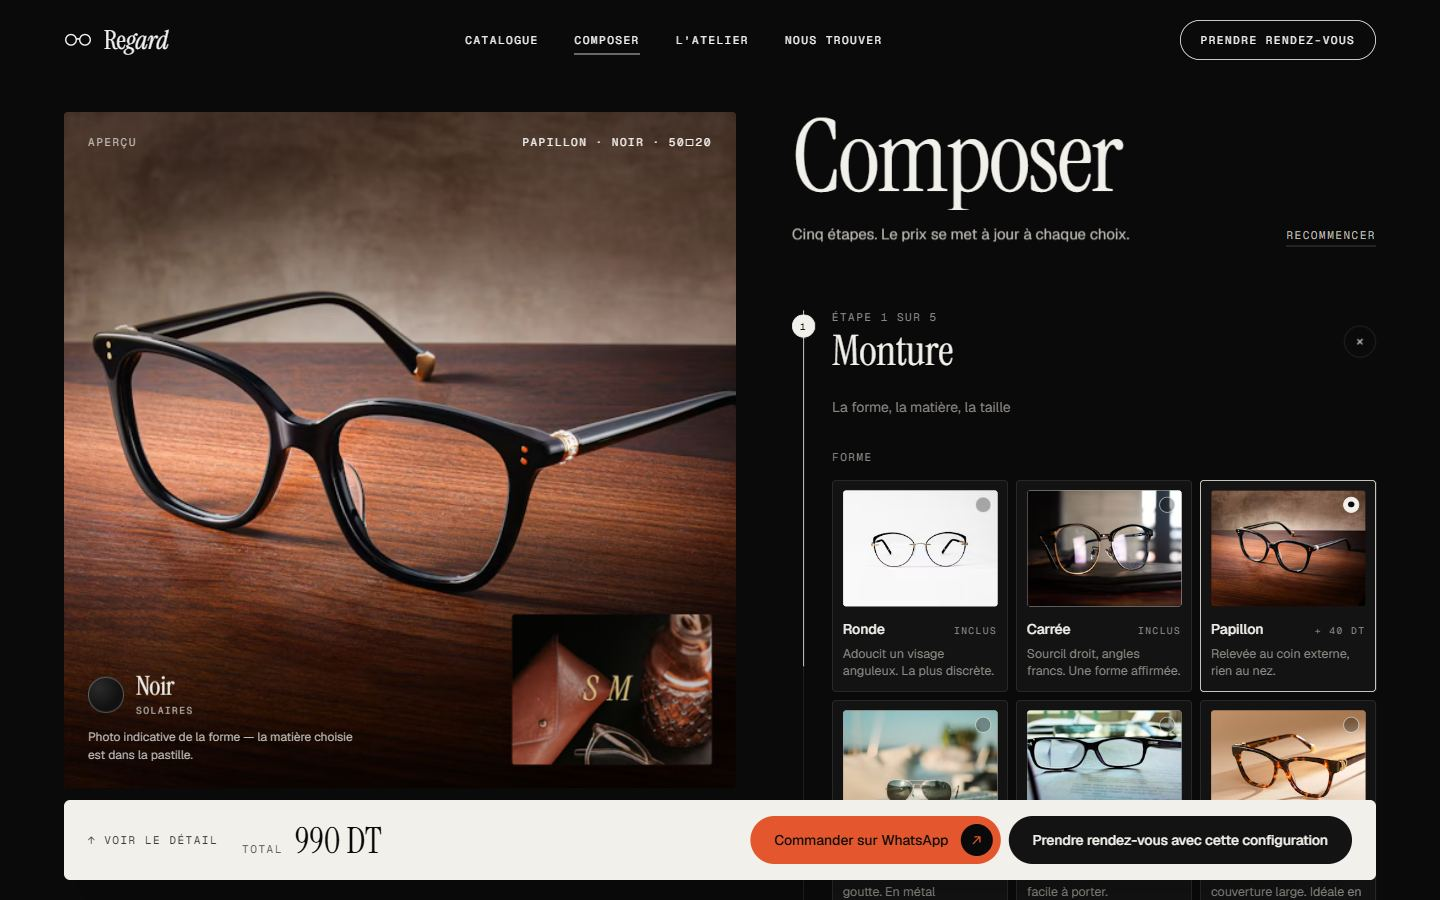
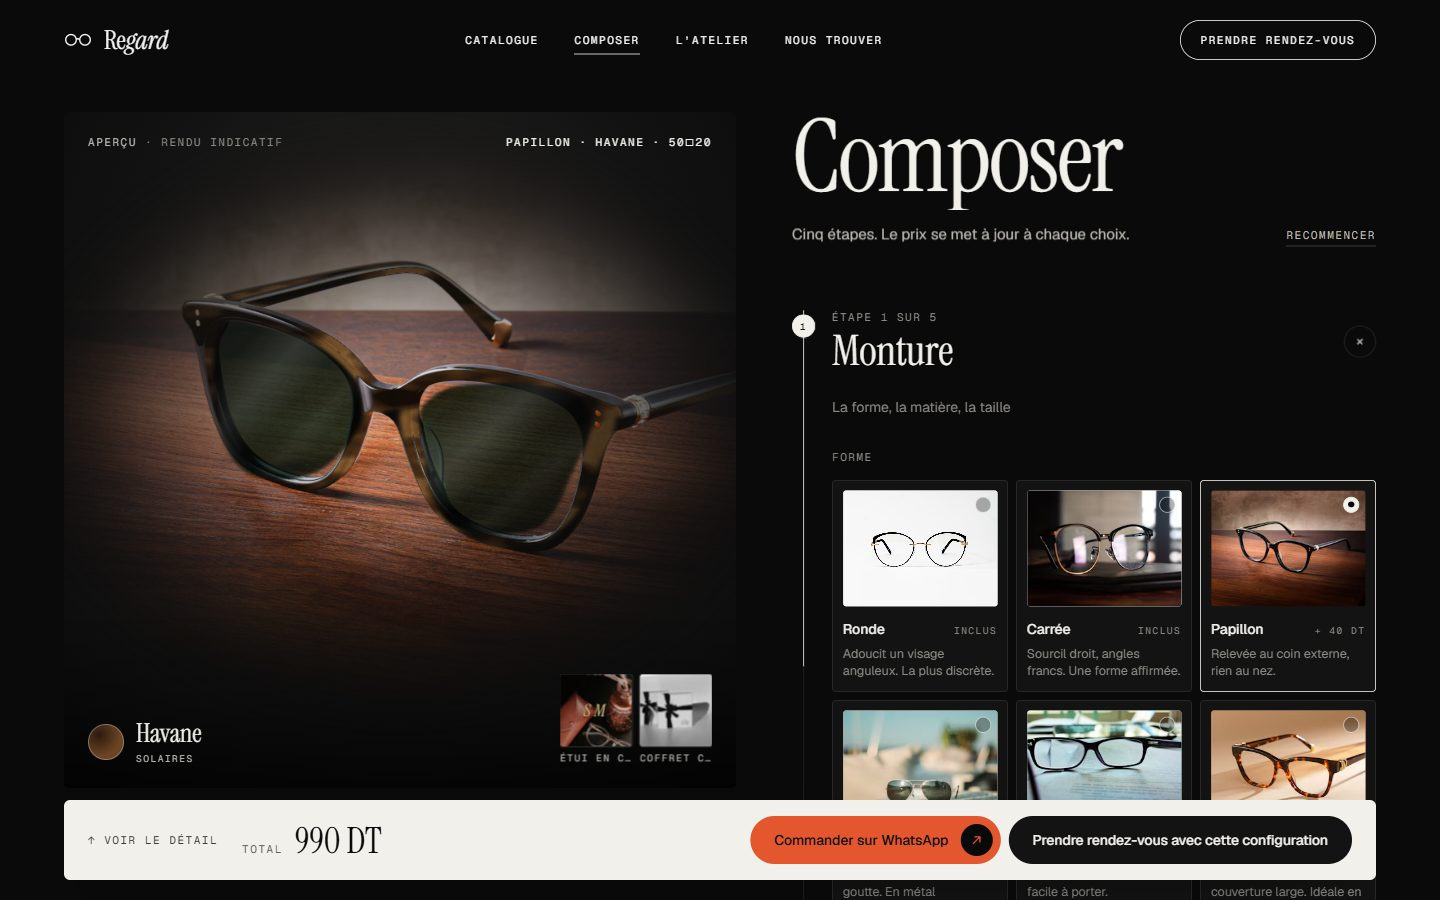
Polish the composer preview on phones and refresh its docs
- One-row material and tray bar on phones so the glasses stay clear
- Quieter anti-reflective sheen on sun lenses
- README: how the photo preview works, retracing outlines when photos change
- New composer screenshots

Changed region(s): [[0.0312, 0.1244, 0.5312, 0.8711], [0.625, 0.5911, 0.6562, 0.6222]]

diff --git a/components/builder/Preview.tsx b/components/builder/Preview.tsx
@@ -56,19 +56,17 @@ export function Preview() {
       </div>
 
       {/* Material, lenses, and what goes in the box */}
-      <div className="on-dark pointer-events-none absolute inset-x-0 bottom-0 flex flex-col gap-3 bg-gradient-to-t from-black/70 via-black/30 to-transparent p-4 pt-10 md:flex-row md:items-end md:justify-between md:p-6 md:pt-16">
+      <div className="on-dark pointer-events-none absolute inset-x-0 bottom-0 flex items-end justify-between gap-3 bg-gradient-to-t from-black/70 via-black/30 to-transparent p-3 pt-8 md:p-6 md:pt-16">
         <div className="flex items-center gap-3">
           <span
             key={cw.id}
             aria-hidden="true"
-            className="size-9 shrink-0 animate-[focus-pull_.6s_cubic-bezier(.2,.7,.1,1)_both] rounded-full shadow-[inset_0_0_0_1px_rgba(255,255,255,.3)]"
+            className="size-7 shrink-0 animate-[focus-pull_.6s_cubic-bezier(.2,.7,.1,1)_both] rounded-full shadow-[inset_0_0_0_1px_rgba(255,255,255,.3)] md:size-9"
             style={{ background: `radial-gradient(circle at 30% 30%, ${cw.swatch[1]}, ${cw.swatch[0]} 60%)` }}
           />
           <span className="flex flex-col">
-            <span className="font-display text-[24px] leading-none md:text-[26px]">{cw.name}</span>
-            <span className="label-sm mt-1.5 text-ink-2">
-              {lens?.label}
-            </span>
+            <span className="font-display text-[20px] leading-none md:text-[26px]">{cw.name}</span>
+            <span className="label-sm mt-1.5 text-ink-2">{lens?.label}</span>
           </span>
         </div>
 
@@ -76,7 +74,7 @@ export function Preview() {
           {tray.map((item) => (
             <li
               key={item.key}
-              className="relative w-12 shrink-0 animate-[focus-pull_.6s_cubic-bezier(.2,.7,.1,1)_both] md:w-[72px]"
+              className="relative w-9 shrink-0 animate-[focus-pull_.6s_cubic-bezier(.2,.7,.1,1)_both] md:w-[72px]"
             >
               <div className="relative overflow-hidden rounded-[3px] shadow-card ring-1 ring-white/15">
                 <Photo photo={item.photo} ratio="1 / 1" sizes="72px" alt="" />

diff --git a/components/builder/PreviewStage.tsx b/components/builder/PreviewStage.tsx
@@ -149,7 +149,7 @@ function lensLook(lensType: LensType, coatings: CoatingId[], sunPhoto: boolean):
   const has = (c: CoatingId) => coatings.includes(c)
   const ar = has('anti-reflective')
   const glare = (v: number) => (ar ? v * 0.5 : v)
-  const sheen = ar ? 0.4 : 0
+  const sheen = ar ? (lensType === 'sun' ? 0.15 : 0.32) : 0
   if (lensType === 'sun') {
     return { tint: has('polarised') ? '#1f3d29' : '#262420', tintOpacity: sunPhoto ? 0.6 : 0.9, clear: 0, glare: glare(0.28), sheen }
   }

diff --git a/README.md b/README.md
@@ -52,7 +52,7 @@ A marketing site, catalogue and frame configurator for an independent optician i
 | ![Catalogue](docs/screenshots/catalogue.jpg) | ![Catalogue in SUN MODE](docs/screenshots/catalogue-sun.jpg) |
 | **Catalogue.** Filter by house, shape, colour, material, fit and price. Every filter lives in the URL. | **SUN MODE.** The same page, crossfaded into the warmer theme. |
 | ![Product page](docs/screenshots/product.jpg) | ![Configurator](docs/screenshots/composer.jpg) |
-| **Fiche produit.** Brand and reference, colourways, possible lenses, a measurement diagram, related frames. | **Composer.** Five steps with a live preview, engraved initials on the case, and a counting total. |
+| **Fiche produit.** Brand and reference, colourways, possible lenses, a measurement diagram, related frames. | **Composer.** Five steps with a live preview: the frame repainted in the chosen material, the lenses tinted, the case engraved. |
 
 <p align="center">
   <img src="docs/screenshots/mobile-home.jpg" width="260" alt="Home on a phone" />
@@ -128,7 +128,7 @@ components/
                            BuilderTeaser, Atelier, TheBox, Lookbook, Voices, Visit,
                            Nav, Footer, Preloader, BookingForm
   catalogue/               Catalogue, Filters, ProductCard, ProductView, SizeDiagram
-  builder/                 Builder, Preview, Steps, Choices, OptionIcon, SummaryBar
+  builder/                 Builder, Preview, PreviewStage, Steps, Choices, OptionIcon, SummaryBar
   ui/                      Pill, SectionHead, BrandWord, FitWord
   seo/JsonLd.tsx           schema.org blocks (Optician on the home page, Product per product)
 content/                   ← everything you edit lives here
@@ -137,6 +137,7 @@ content/                   ← everything you edit lives here
   products.ts              29 products: frames by house, plus house accessories
   builder.ts               configurator options and prices
   brands.ts                houses carried and their logos
+  plates.ts                where the frame and lenses sit in each shape photo (for the preview)
   photos.ts                every photograph: URL, size, colour, alt text, credit
   types.ts                 the data model
 lib/                       builder logic (URL codec, validation, quote), catalogue
@@ -180,6 +181,7 @@ The stat-card thumbnails are cut from the clip's last frame. Their crop rectangl
 - **Scroll scenes.** `useScrollScene` loads GSAP only when a scene nears the viewport, or once the page is idle. Each scene runs in a `gsap.context` scoped to its section and is reverted on unmount, so ScrollTriggers never leak between routes. Pins are measured top to bottom.
 - **Catalogue.** All state lives in the URL (`?category=sun&brand=ray-ban,persol&sort=price-asc`), written with the History API, so every view is a shareable link and Back walks through category changes. Cards animate with layout transitions and leave by blurring out.
 - **Configurator.** The whole configuration is a readable query string (`/composer?shape=cat-eye&cw=noir&lens=sun&coat=polarised&case=leather&gift=1&eng=SM`). It is restored on load and mirrored to `localStorage`. Invalid combinations are declared as data in `content/builder.ts`: polarised only with sun lenses, aviators in metal only, engraving only with the gift box. They render disabled with the reason shown, and are normalised away if they arrive in a link.
+- **Configurator preview.** The main picture is a real photograph of the chosen shape, worked on in the browser. An SVG filter repaints the frame in the chosen material: tortoiseshell is generated noise mapped through the acetate's own colours, while black, crystal, titanium and gold are flat tones. The photo's own shading is kept, so curves and highlights survive. The repaint is limited to the frame by outlines traced for each photo (`content/plates.ts`). Tinted layers go over the lenses: smoke for sun lenses, G-15 green when polarised, grey for photochromic, a warm cast for the blue filter, and a faint green sheen for anti-reflective. A new shape fades in over the last with a focus pull, a new material fades over the old frame, and a size change eases the shot closer. It is a representative rendering, labelled *Rendu indicatif*, not a photo of the exact frame.
 - **Orders.** "Commander sur WhatsApp" opens `wa.me/<number>` with the itemised configuration, the total and a link back to it. "Prendre rendez-vous avec cette configuration" opens the booking form with the build attached.
 - **Bookings.** The form posts to `/api/booking`, which validates the request and emails it to the shop when Resend is configured (replies go straight to the visitor if they left an email). If email isn't configured or the request fails, the form says so and offers the same request as a pre-filled WhatsApp message, so a booking is never silently lost. A hidden honeypot field drops spam bots.
 - **Search engines.** The home page carries an `Optician` schema (address, coordinates, opening hours, phone) and each product page a `Product` schema (brand, reference, photo, price in TND, in-store availability). Product pages share their own photo as the Open Graph image.
@@ -196,6 +198,7 @@ Every value to replace is marked `// PLACEHOLDER` in `/content`.
 - [ ] **Products.** `products.ts`: prices, colourway lists, descriptions, measurements
 - [ ] **Product photos.** `photos.ts`: product images are Unsplash stand-ins. Replace them with the distributors' official shots.
 - [ ] **Configurator prices.** `builder.ts`: base price and every delta
+- [ ] **Configurator photos.** `builder.ts` → `shapeOptions[].photo`: one shot per shape. The best results come from studio shots on a plain background. After swapping a photo, retrace its frame and lens outlines in `plates.ts`.
 - [ ] **Testimonials.** `copy.ts` → `voices`: all three are invented
 - [ ] **Stats.** `copy.ts` → `hero.stats` and `atelier.stats`
 - [ ] **Booking emails.** Create a Resend account, verify the shop's domain, and set `RESEND_API_KEY`, `BOOKING_TO_EMAIL` and `BOOKING_FROM_EMAIL`. Until then bookings arrive through WhatsApp.
